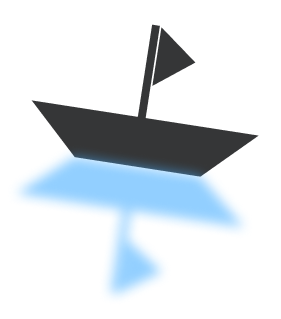
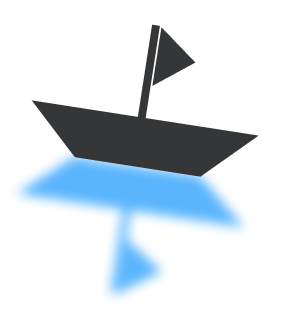
라이트 모드, 메인 - 배 이미지 추가

Changed region(s): [[0.0854, 0.4796, 0.8541, 0.931]]

diff --git a/docs/common.css b/docs/common.css
@@ -213,6 +213,14 @@ body {
   width: 200px;
 }
 
+.main .main-img .main-img__boat>.dark {
+  display: block;
+}
+
+.main .main-img .main-img__boat>.light {
+  display: none;
+}
+
 @keyframes boat {
   50% {
     top: 47%;
@@ -922,10 +930,19 @@ body {
 /* 배경 별 반짝이는 효과 끝 */
 
 
-/* 라이트 버전 커스텀 시작 */
+/* --- 라이트 버전 커스텀 시작 --- */
 /* 화면 배경색 */
 .site-wrap.mode .section  {
   background-color: white;
+}
+
+/* 헤더 - 메뉴바 */
+.site-wrap.mode .menu-bar {
+  color:#999999;
+}
+
+.site-wrap.mode .menu-bar .menu>li.active>a {
+  color: #7079E2;
 }
 
 /* 메인 시작 */
@@ -963,6 +980,14 @@ body {
 
 .site-wrap.mode .main .main-img>.main-img__sea>div {
   background: radial-gradient( rgb(0,117,255) 10%, rgba(143, 232, 252, 0.87) 90%);
+}
+
+.site-wrap.mode .main .main-img .main-img__boat>.dark {
+  display: none;
+}
+
+.site-wrap.mode .main .main-img .main-img__boat>.light {
+  display: block;
 }
 
 

diff --git a/docs/index.html b/docs/index.html
@@ -44,7 +44,7 @@
     <header class="menu-bar">
       <a href="#" class="logo"><img src="resource/02_main_logo.png" alt=""></a>
       <ul class="menu">
-        <li data-menuanchor="home"><a href="#home">HOME</a></li>
+        <li data-menuanchor="home" class="logo"><a href="#home">HOME</a></li>
         <li data-menuanchor="aboutMe"><a href="#aboutMe">ABOUT ME</a></li>
         <li data-menuanchor="portfolio"><a href="#portfolio">PORTFOLIO</a></li>
         <li data-menuanchor="contact"><a href="#contact">CONTACT</a></li>
@@ -79,7 +79,8 @@
               <div class="main-img__wave-3"></div>
             </div>
             <div class="main-img__boat">
-              <img src="resource/01_main_boat.png" alt="">
+              <img class="dark" src="resource/01_main_boat.png" alt="">
+              <img class="light" src="resource/08_main_boat_light.png" alt="">
             </div>
           </div>
           <div class="StarryNight">
